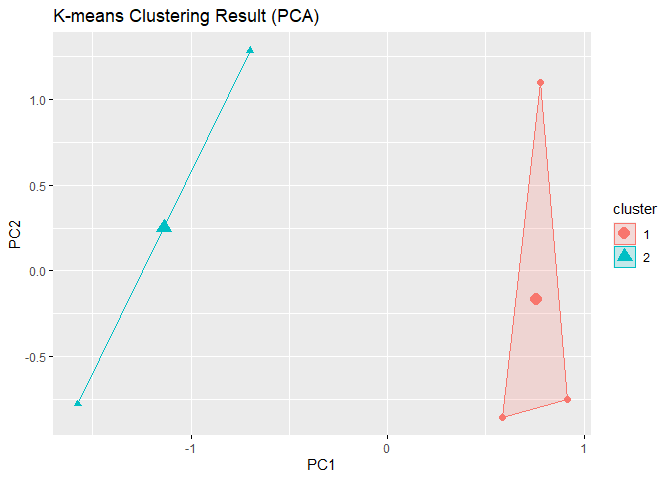
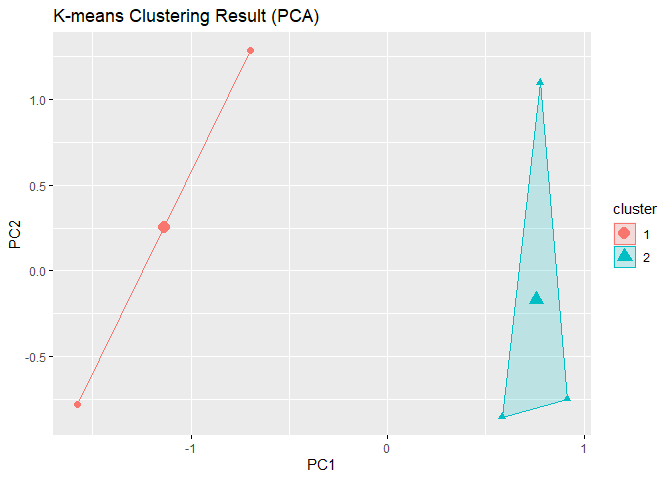
Ass 6

diff --git a/MVA_Project1.md b/MVA_Project1.md
@@ -705,7 +705,7 @@ table(kmeans_model$cluster)
 
     ## 
     ##  1  2 
-    ##  8 12
+    ##  4 16
 
 ``` r
 # Visualize cluster and membership using first two Principal Components
@@ -768,8 +768,8 @@ fviz_silhouette(sil, main = "Silhouette Plot for K-means Clustering")
 ```
 
     ##   cluster size ave.sil.width
-    ## 1       1   12          0.80
-    ## 2       2    8          0.46
+    ## 1       1    8          0.46
+    ## 2       2   12          0.80
 
 ![](MVA_Project1_files/figure-gfm/unnamed-chunk-12-3.png)<!-- -->
 
@@ -787,3 +787,168 @@ legend("topright", legend = unique(data_clustered$Cluster),
 ```
 
 ![](MVA_Project1_files/figure-gfm/unnamed-chunk-12-4.png)<!-- -->
+
+### Assignment 6
+
+<h4>
+Factor Analysis
+</h4>
+<p>
+<b>1. Decide how many Factors are ideal for your dataset</b>
+</p>
+<p>
+Parallel analysis suggests that the number of factors = 1 and the number
+of components = 1
+</p>
+<p>
+<b>2. Explain the output for your factor model</b>
+</p>
+<p>
+<b>Standardized Loadings</b>
+</p>
+<p>
+Avg_Session_Duration has low loadings on all factors, with the highest
+loading on MR3 (0.32).
+</p>
+<p>
+Total_Sessions has the highest loading on MR2 (0.34).
+</p>
+<p>
+Total_revenue and Conversion_Rate both have the highest loadings on MR1
+(0.48 and 0.50, respectively).
+</p>
+<p>
+<b>SS Loadings</b>
+</p>
+<p>
+MR1 explains 12% of the total variance., MR2 explains 4% of the total
+variance., MR3 explains 3% of the total variance.
+</p>
+<p>
+MR1 might be related to conversion rate and potentially session duration
+(positive loadings).
+</p>
+<p>
+MR2 is positively associated with the total number of sessions.
+</p>
+<p>
+MR3 has weaker and mixed relationships with the variables.
+</p>
+<p>
+we can conclude that a 3-factor solution adequately explains the
+structure of the data. Each factor captures a unique aspect of the
+underlying structure, with Total_revenue and Conversion_Rate loading
+primarily on MR1, Total_Sessions on MR2, and Avg_Session_Duration on
+MR3.
+</p>
+<p>
+<b> 3&4 Show the columns that go into each factor and Perform some
+visualizations using the factors</b>
+</p>
+<p>
+
+we can see the below code to answer 3&4.
+
+``` r
+library(psych)
+```
+
+    ## Warning: package 'psych' was built under R version 4.3.3
+
+    ## 
+    ## Attaching package: 'psych'
+
+    ## The following objects are masked from 'package:ggplot2':
+    ## 
+    ##     %+%, alpha
+
+``` r
+library(readxl)
+data <- read_excel("News Website Dataset_2.xlsx")
+data_num <- data[, c("Avg_Session_Duration", "Total_Sessions", "Total_revenue","Conversion_Rate")]
+factor_model <- fa(data_num, nfactors = 3, rotate = "varimax")
+
+fa.parallel(data_num[-1])
+```
+
+    ## Warning in fa.stats(r = r, f = f, phi = phi, n.obs = n.obs, np.obs = np.obs, :
+    ## The estimated weights for the factor scores are probably incorrect.  Try a
+    ## different factor score estimation method.
+
+    ## Warning in fac(r = r, nfactors = nfactors, n.obs = n.obs, rotate = rotate, : An
+    ## ultra-Heywood case was detected.  Examine the results carefully
+
+![](MVA_Project1_files/figure-gfm/unnamed-chunk-13-1.png)<!-- -->
+
+    ## Parallel analysis suggests that the number of factors =  1  and the number of components =  1
+
+``` r
+print(factor_model)
+```
+
+    ## Factor Analysis using method =  minres
+    ## Call: fa(r = data_num, nfactors = 3, rotate = "varimax")
+    ## Standardized loadings (pattern matrix) based upon correlation matrix
+    ##                        MR1   MR2   MR3   h2   u2 com
+    ## Avg_Session_Duration -0.02  0.03  0.32 0.10 0.90 1.0
+    ## Total_Sessions        0.01  0.34  0.03 0.12 0.88 1.0
+    ## Total_revenue         0.48  0.18 -0.18 0.30 0.70 1.6
+    ## Conversion_Rate       0.50 -0.07  0.05 0.25 0.75 1.1
+    ## 
+    ##                        MR1  MR2  MR3
+    ## SS loadings           0.48 0.15 0.14
+    ## Proportion Var        0.12 0.04 0.03
+    ## Cumulative Var        0.12 0.16 0.19
+    ## Proportion Explained  0.62 0.20 0.18
+    ## Cumulative Proportion 0.62 0.82 1.00
+    ## 
+    ## Mean item complexity =  1.2
+    ## Test of the hypothesis that 3 factors are sufficient.
+    ## 
+    ## df null model =  6  with the objective function =  0.06 with Chi Square =  9.18
+    ## df of  the model are -3  and the objective function was  0 
+    ## 
+    ## The root mean square of the residuals (RMSR) is  0 
+    ## The df corrected root mean square of the residuals is  NA 
+    ## 
+    ## The harmonic n.obs is  160 with the empirical chi square  0  with prob <  NA 
+    ## The total n.obs was  160  with Likelihood Chi Square =  0  with prob <  NA 
+    ## 
+    ## Tucker Lewis Index of factoring reliability =  2.959
+    ## Fit based upon off diagonal values = 1
+    ## Measures of factor score adequacy             
+    ##                                                     MR1   MR2   MR3
+    ## Correlation of (regression) scores with factors    0.63  0.39  0.37
+    ## Multiple R square of scores with factors           0.39  0.15  0.14
+    ## Minimum correlation of possible factor scores     -0.21 -0.69 -0.72
+
+``` r
+factor_loadings <- factor_model$loadings
+print(factor_loadings)
+```
+
+    ## 
+    ## Loadings:
+    ##                      MR1    MR2    MR3   
+    ## Avg_Session_Duration                0.320
+    ## Total_Sessions               0.342       
+    ## Total_revenue         0.483  0.176 -0.184
+    ## Conversion_Rate       0.496              
+    ## 
+    ##                 MR1   MR2   MR3
+    ## SS loadings    0.48 0.154 0.140
+    ## Proportion Var 0.12 0.039 0.035
+    ## Cumulative Var 0.12 0.159 0.193
+
+``` r
+#some visualizations
+fa.plot(factor_model)      # See Correlations within Factors
+```
+
+![](MVA_Project1_files/figure-gfm/unnamed-chunk-13-2.png)<!-- -->
+
+``` r
+fa.diagram(factor_model)   # Visualize the relationship
+```
+
+![](MVA_Project1_files/figure-gfm/unnamed-chunk-13-3.png)<!-- -->
